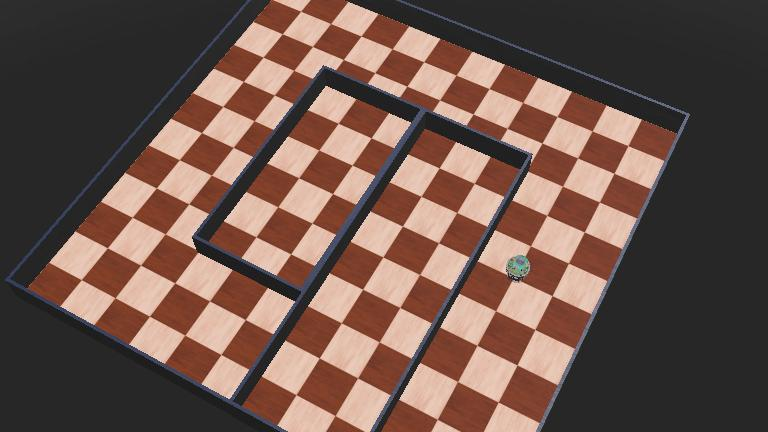
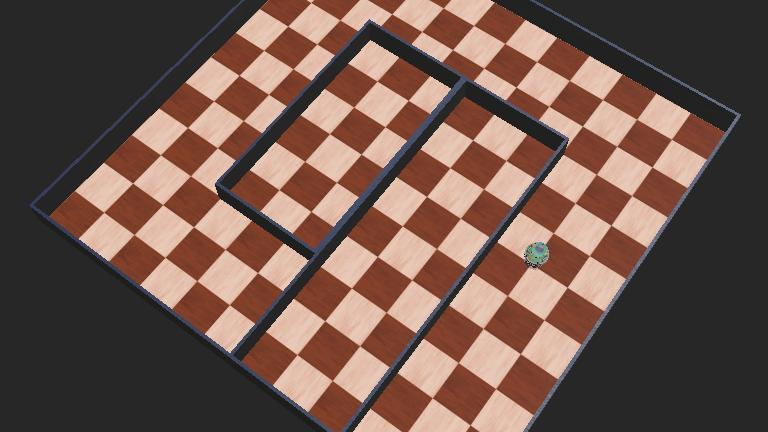
add my_fuzzy_controller.py and it's configuration for e-puck

diff --git a/controllers/my_fuzzy_controller/my_fuzzy_controller.py b/controllers/my_fuzzy_controller/my_fuzzy_controller.py
@@ -1,0 +1,32 @@
+"""my_fuzzy_controller controller."""
+
+# You may need to import some classes of the controller module. Ex:
+#  from controller import Robot, Motor, DistanceSensor
+from controller import Robot
+
+# create the Robot instance.
+robot = Robot()
+
+# get the time step of the current world.
+timestep = int(robot.getBasicTimeStep())
+
+# You should insert a getDevice-like function in order to get the
+# instance of a device of the robot. Something like:
+#  motor = robot.getDevice('motorname')
+#  ds = robot.getDevice('dsname')
+#  ds.enable(timestep)
+
+# Main loop:
+# - perform simulation steps until Webots is stopping the controller
+while robot.step(timestep) != -1:
+    # Read the sensors:
+    # Enter here functions to read sensor data, like:
+    #  val = ds.getValue()
+
+    # Process sensor data here.
+
+    # Enter here functions to send actuator commands, like:
+    #  motor.setPosition(10.0)
+    pass
+
+# Enter here exit cleanup code.
